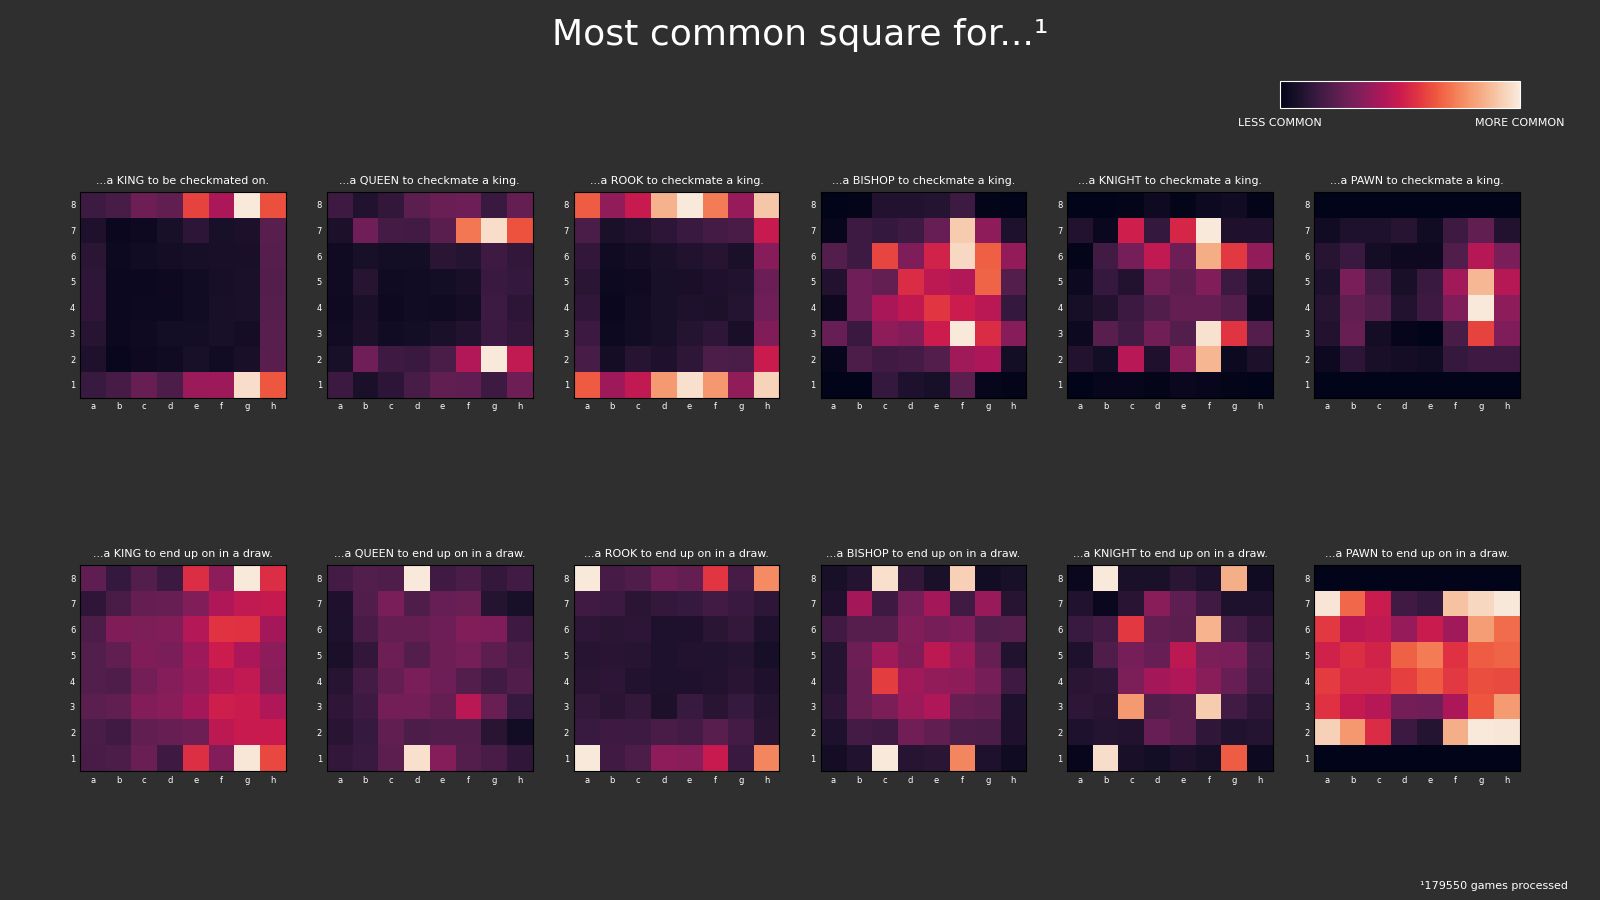
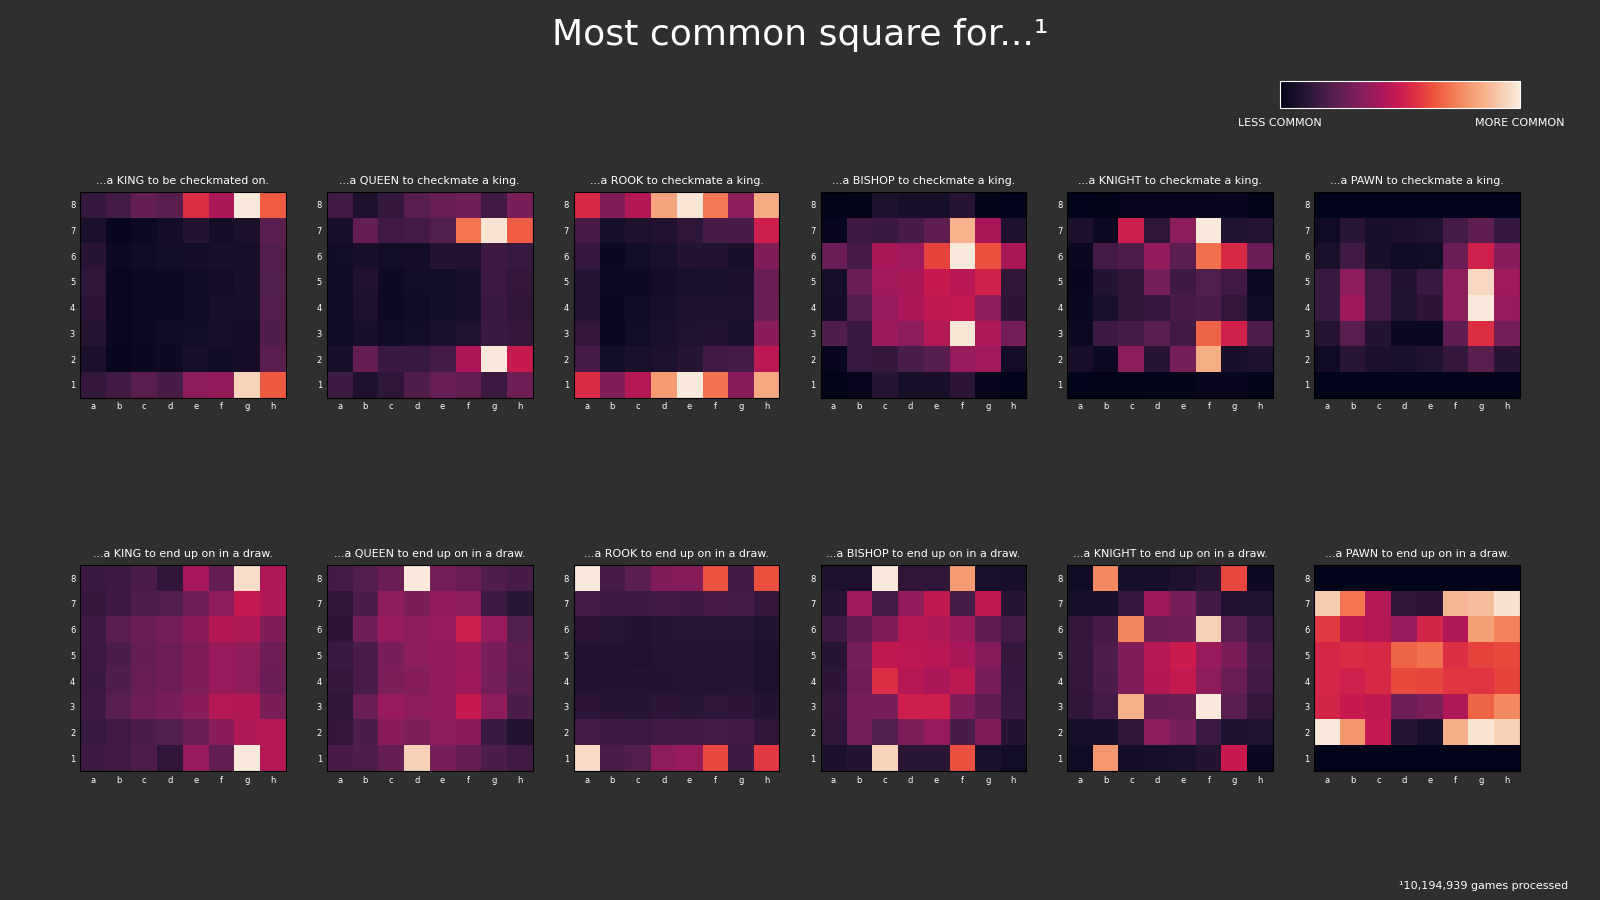
Updated output.png, changed formatting for output of py file

diff --git a/python/visualizer.py b/python/visualizer.py
@@ -75,7 +75,7 @@ for line in sys.stdin:
     if line == "game":
         games_processed += 1
         if games_processed % 100_000 == 0:
-            print(f"[INFO] {games_processed:,} games processed...")
+            print(f"[INFO] {games_processed} games processed...")
         continue
     if len(line) < 3:
         continue
@@ -129,7 +129,7 @@ fig.suptitle("Most common square for...¹", fontsize=26, color='white')
 fig.patch.set_facecolor('#2f2f2f')
 plt.subplots_adjust(wspace=0.2, hspace=0.0, left=0.05, right=0.95, top=0.88, bottom=0.05)
 
-fig.text(0.98, 0.01, f"¹{games_processed} games processed",
+fig.text(0.98, 0.01, f"¹{add_commas(games_processed)} games processed",
          fontsize=8, color='white', ha='right', va='bottom')
 
 fig.savefig(sys.argv[1], dpi=100, facecolor=fig.get_facecolor())
